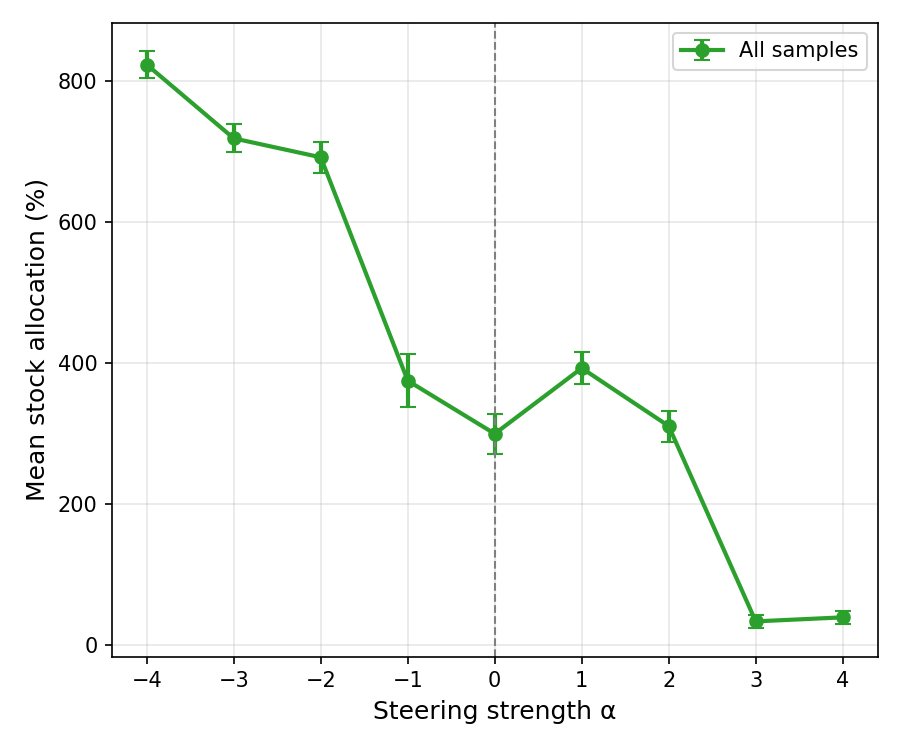
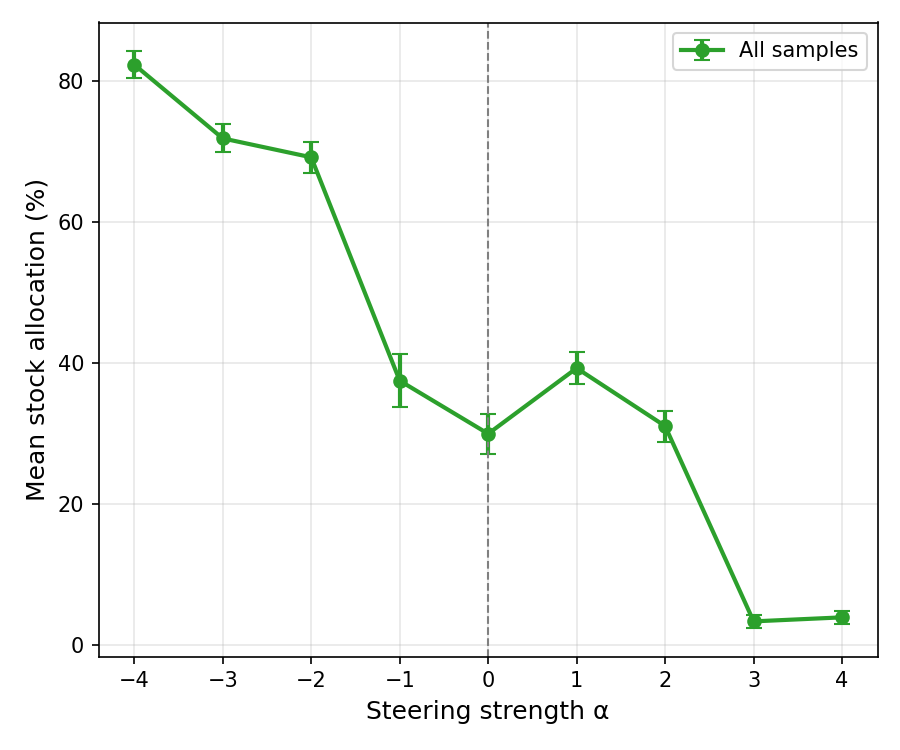
downstream application

diff --git a/downstream_application/analyze_steering_effect.py b/downstream_application/analyze_steering_effect.py
@@ -47,7 +47,7 @@ for alpha in ALPHAS:
         sid = r["id"]
         unc = sentences.get(sid, {}).get("uncertainty", "unknown")
         rows.append({"alpha": alpha, "id": sid, "uncertainty": unc,
-                     "mean_stock": r["mean_stock"]})
+                     "mean_stock": r["mean_stock"] / 10.0})  # convert to %
 
 # ── aggregate ──────────────────────────────────────────────────────────────────
 
